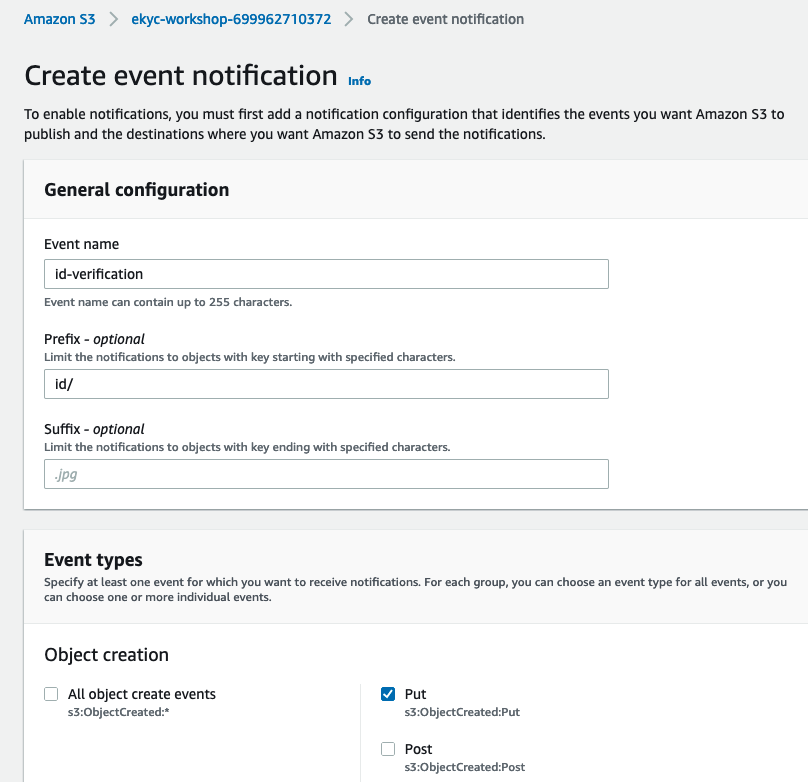
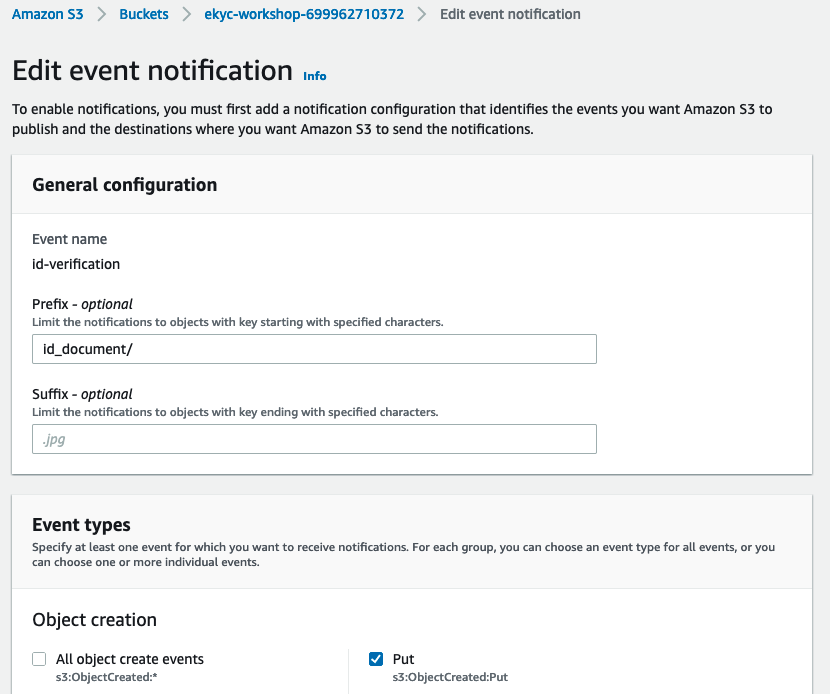
Content Updated

diff --git a/content/eKYC Workshop Lab/3. 创建 Identity Verification 工作流.md b/content/eKYC Workshop Lab/3. 创建 Identity Verification 工作流.md
@@ -19,7 +19,7 @@ tags:
  - Type 选择 "Standard"
 
 **粘贴以下代码，注意有一处配置需要修改:**
-  - TopicArn： 将 ```arn:aws:sns:ap-northeast-1:xxxxxx:ekyc-fail-notification``` 中的 xxx 替换为您的账户 ID
+  - TopicArn： 将 ```arn:aws:sns:ap-northeast-1:xxxxxx:ekyc-fail-notification``` 中的 ap-northeast-1 替换为您的 region，xxx 替换为您的账户 ID
 
 ```
 {
@@ -179,8 +179,8 @@ tags:
  - Type 选择 "Standard"
 
 **粘贴以下代码，注意有两处配置需要修改:**
- 1. TopicArn： 将 ```arn:aws:sns:ap-northeast-1:xxxxxx:ekyc-fail-notification``` 中的 xxx 替换为您的账户 ID
- 2. StateMachineArn： 将 ```arn:aws:states:ap-northeast-1:xxxxxx:stateMachine:ekyc-workshop-identity-compare``` 中的 xxx 替换为您的账户 ID
+ 1. TopicArn： 将 ```arn:aws:sns:ap-northeast-1:xxxxxx:ekyc-fail-notification``` 中的 ap-northeast-1 替换为您的 region，xxx 替换为您的账户 ID
+ 2. StateMachineArn： 将 ```arn:aws:states:ap-northeast-1:xxxxxx:stateMachine:ekyc-workshop-identity-compare``` 中的 ap-northeast-1 替换为您的 region，xxx 替换为您的账户 ID
 
 ```
 {
@@ -558,11 +558,11 @@ SQS Queue 创建完成后，再次编辑该 Queue，将 ```ekyc-workshop-identit
 
 为证件照所在的 S3 Prefix 创建一个事件通知，当证件照上传到对应的 S3 prefix 时，将发送消息到 SQS，然后触发 Identity Verification 的流程。
  - S3 Bucket:  ekyc-workshop-"accountId"
- - Identity Prefix:  identity/
+ - Identity Prefix:  selfie/
 
 进入 S3 控制台，找到 ekyc-workshop-"accountId" 桶，在 Properties -- Event Notification 创建：
  - Event name: ```identity-verification```
- - Prefix: ```identity/```
+ - Prefix: ```selfie/```
  - Event types: ```Put```
  - Destination: 选择 SQS Queue -- Choose from your SQS queues -- 选择 ```ekyc-work-identity-verification```
 
@@ -571,3 +571,11 @@ SQS Queue 创建完成后，再次编辑该 Queue，将 ```ekyc-workshop-identit
 
 S3 event notification 创建完成
 ![](/images/eKYC/S3Event-IdentityVerification-3.png)
+
+清空 SQS 队列里的消息
+```
+aws_account_id=$(aws sts get-caller-identity --query "Account" --output text)
+identity_q=https://ap-northeast-1.queue.amazonaws.com/$aws_account_id/ekyc-workshop-identity-verification
+aws sqs purge-queue --queue-url $identity_q
+
+```

diff --git a/content/eKYC Workshop Lab/2. 创建 ID Verification 工作流.md b/content/eKYC Workshop Lab/2. 创建 ID Verification 工作流.md
@@ -189,8 +189,8 @@ aws lambda update-function-configuration --function-name $function_name --layers
  - Type 选择 "Standard"
 
 **粘贴以下代码，注意有两处配置需要修改:**
- 1. TopicArn： 将 ```arn:aws:sns:ap-northeast-1:xxxxxx:ekyc-fail-notification``` 中的 xxx 替换为您的账户 ID
- 2. FunctionName： 将 ```arn:aws:lambda:ap-northeast-1:xxxxxx:function:ekyc-workshop-id-ocr:$LATEST``` 中的 xxx 替换为您的账户 ID
+ 1. TopicArn： 将 ```arn:aws:sns:ap-northeast-1:xxxxxx:ekyc-fail-notification``` 中的 ap-northeast-1 替换为您的 region，xxx 替换为您的账户 ID
+ 2. FunctionName： 将 ```arn:aws:lambda:ap-northeast-1:xxxxxx:function:ekyc-workshop-id-ocr:$LATEST``` 中的 ap-northeast-1 替换为您的 region，xxx 替换为您的账户 ID
 
 ```
 {
@@ -420,11 +420,11 @@ SQS Queue 创建完成后，再次编辑该 Queue，将 ```ekyc-workshop-id-veri
 
 为证件照所在的 S3 Prefix 创建一个事件通知，当证件照上传到对应的 S3 prefix 时，将发送消息到 SQS，然后触发 ID Verification 的流程。
  - S3 Bucket:  ekyc-workshop-"accountId"
- - ID Prefix:  id/
+ - ID Prefix:  id_document/
 
 进入 S3 控制台，找到 ekyc-workshop-"accountId" 桶，在 Properties -- Event Notification 创建：
  - Event name: ```id-verification```
- - Prefix: ```id/```
+ - Prefix: ```id_document/```
  - Event types: ```Put```
  - Destination: 选择 SQS Queue -- Choose from your SQS queues -- 选择 ```ekyc-work-id-verification```
 
@@ -433,3 +433,12 @@ SQS Queue 创建完成后，再次编辑该 Queue，将 ```ekyc-workshop-id-veri
 
 S3 event notification 创建完成
 ![](/images/eKYC/S3Event-IDVerification-3.png)
+
+
+清空 SQS 队列里的消息
+```
+aws_account_id=$(aws sts get-caller-identity --query "Account" --output text)
+id_q=https://ap-northeast-1.queue.amazonaws.com/$aws_account_id/ekyc-workshop-id-verification
+aws sqs purge-queue --queue-url $id_q
+
+```

diff --git a/content/eKYC Workshop Lab/4. eKYC 流程验证.md b/content/eKYC Workshop Lab/4. eKYC 流程验证.md
@@ -16,17 +16,8 @@ wget https://hxh-public.s3.ap-northeast-1.amazonaws.com/ekyc-test.zip
 unzip ekyc-test.zip
 cd ekyc-test/
 ```
-2. 先清空 ID 和 Identity verification 两个 SQS 队列里的消息
-```
-aws_account_id=$(aws sts get-caller-identity --query "Account" --output text)
-id_q=https://ap-northeast-1.queue.amazonaws.com/$aws_account_id/ekyc-workshop-id-verification
-identity_q=https://ap-northeast-1.queue.amazonaws.com/$aws_account_id/ekyc-workshop-identity-verification
-aws sqs purge-queue --queue-url $id_q
-aws sqs purge-queue --queue-url $identity_q
 
-```
-
-3. 通过 AWS CLI 将 ID 照片 和 自拍照分别上传到各自对应的 S3 路径，注意需要将照片文件的名称改为 userid，假设 userid = user001.
+2. 通过 AWS CLI 将 ID 照片 和 自拍照分别上传到各自对应的 S3 路径，注意需要将照片文件的名称改为 userid，假设 userid = user001.
 
 **！注意：同一个 User 的证件照片和自拍照的文件名称必须都为 userid，例如 user001.png**
 
@@ -34,7 +25,7 @@ aws sqs purge-queue --queue-url $identity_q
 ```
 aws_account_id=$(aws sts get-caller-identity --query "Account" --output text)
 bucket=ekyc-workshop-$aws_account_id
-aws s3 cp ID-01.png s3://$bucket/id/user001.png
+aws s3 cp ID-01.png s3://$bucket/id_document/user001.png
 
 ```
 
@@ -42,11 +33,11 @@ aws s3 cp ID-01.png s3://$bucket/id/user001.png
 ```
 aws_account_id=$(aws sts get-caller-identity --query "Account" --output text)
 bucket=ekyc-workshop-$aws_account_id
-aws s3 cp Selfie-01.png s3://$bucket/identity/user001.png
+aws s3 cp Selfie-01.png s3://$bucket/selfie/user001.png
 
 ```
 
-4. 查看 Step Functions 工作流执行状况
+3. 查看 Step Functions 工作流执行状况
 
 查看 ID Verification Step Functions 执行情况
 ![](/images/eKYC/Test-ID.png)

diff --git a/content/eKYC Workshop Lab/1. 创建基础资源.md b/content/eKYC Workshop Lab/1. 创建基础资源.md
@@ -85,7 +85,7 @@ aws iam attach-role-policy --role-name ekyc-Lambda-role --policy-arn arn:aws:iam
     - AmazonDynamoDBFullAccess
     - AmazonRekognitionFullAccess
     - AWSStepFunctionsFullAccess
-    - AWSLambdaRole
+    - AWSLambda_FullAccess
     - AmazonSNSFullAccess
     - AmazonS3FullAccess
  - Trust relationships: states.amazonaws.com
@@ -113,7 +113,7 @@ aws iam create-role --role-name ekyc-StepFunctions-role --assume-role-policy-doc
 aws iam attach-role-policy --role-name ekyc-StepFunctions-role --policy-arn arn:aws:iam::aws:policy/CloudWatchFullAccess
 aws iam attach-role-policy --role-name ekyc-StepFunctions-role --policy-arn arn:aws:iam::aws:policy/AmazonS3FullAccess
 aws iam attach-role-policy --role-name ekyc-StepFunctions-role --policy-arn arn:aws:iam::aws:policy/AmazonDynamoDBFullAccess
-aws iam attach-role-policy --role-name ekyc-StepFunctions-role --policy-arn arn:aws:iam::aws:policy/AWSLambdaRole
+aws iam attach-role-policy --role-name ekyc-StepFunctions-role --policy-arn arn:aws:iam::aws:policy/AWSLambda_FullAccess
 aws iam attach-role-policy --role-name ekyc-StepFunctions-role --policy-arn arn:aws:iam::aws:policy/AmazonRekognitionFullAccess
 aws iam attach-role-policy --role-name ekyc-StepFunctions-role --policy-arn arn:aws:iam::aws:policy/AWSStepFunctionsFullAccess
 aws iam attach-role-policy --role-name ekyc-StepFunctions-role --policy-arn arn:aws:iam::aws:policy/AmazonSNSFullAccess
